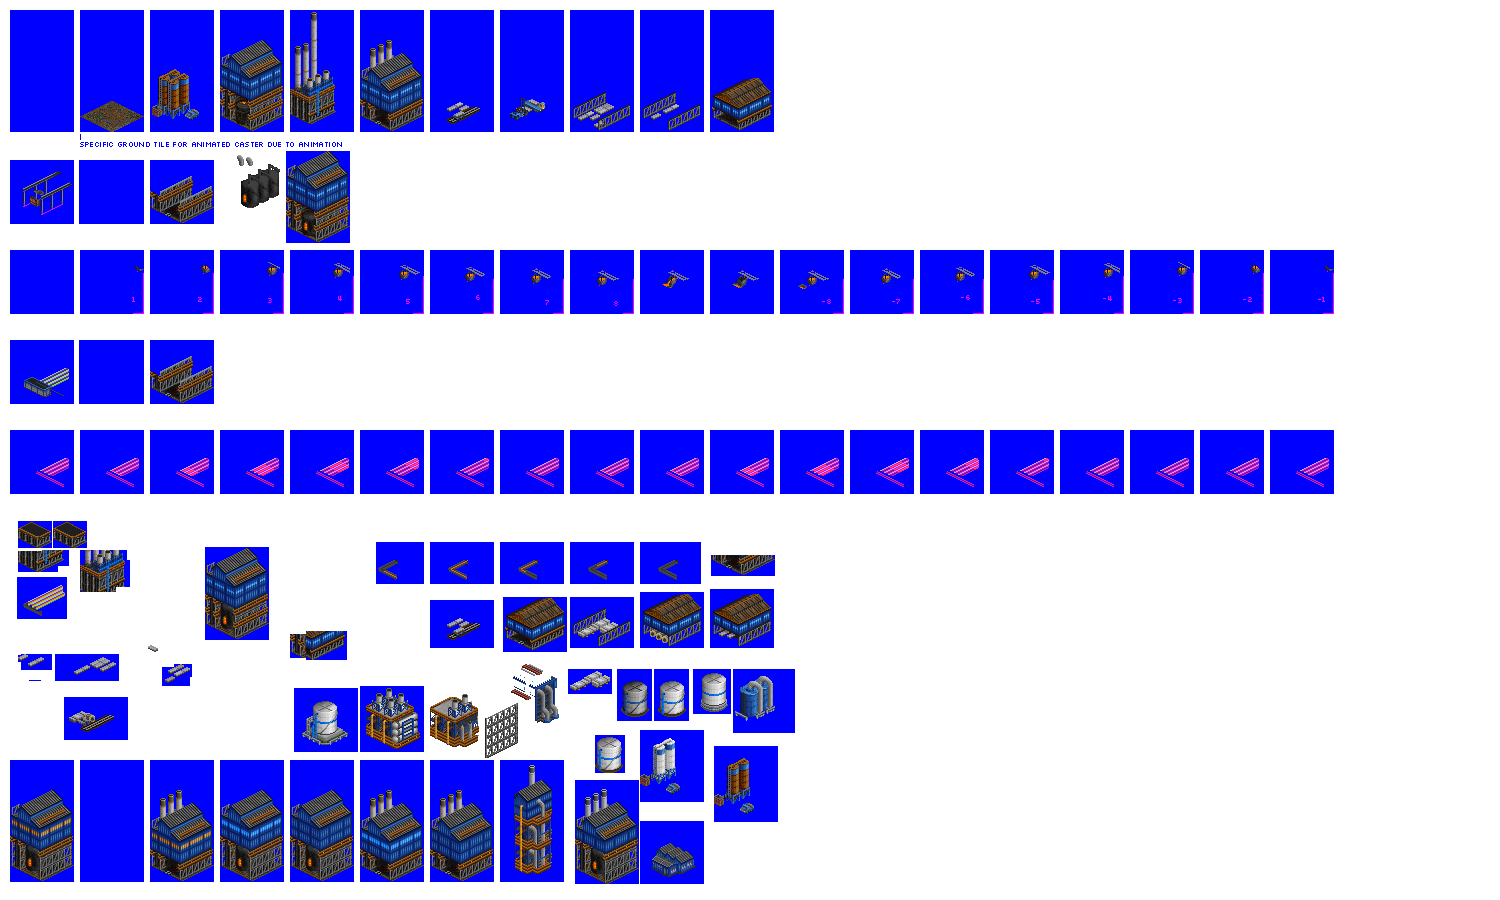
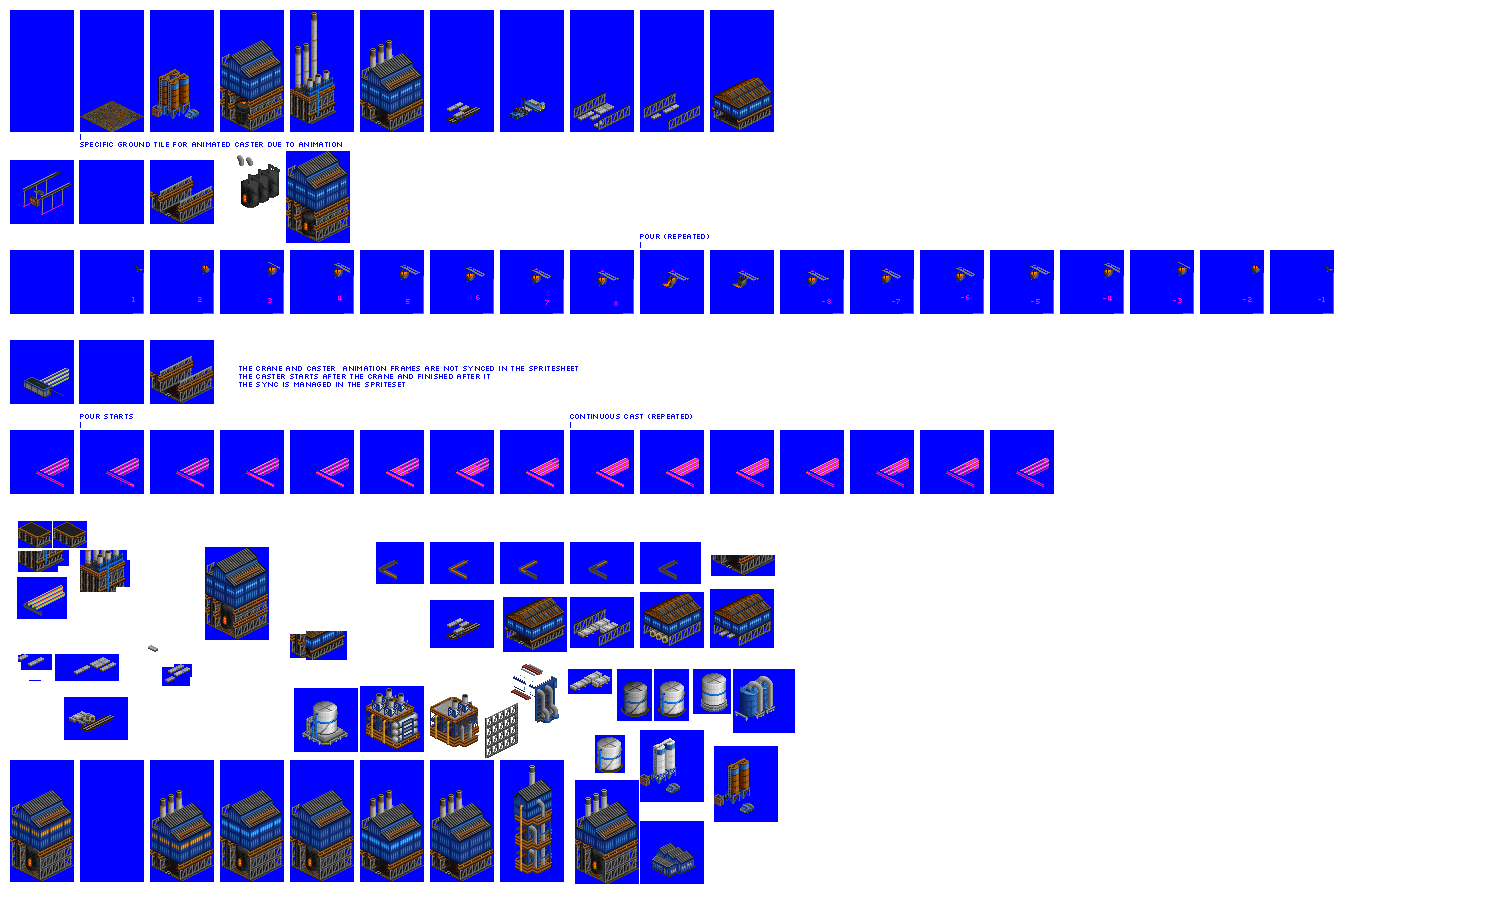
Change: improved BOF caster plant animation

Changed region(s): [[0.7053, 0.4667, 0.8893, 0.56], [0.1533, 0.4044, 0.3373, 0.4356]]

diff --git a/src/industries/basic_oxygen_furnace.py b/src/industries/basic_oxygen_furnace.py
@@ -44,9 +44,9 @@ industry.add_tile(
 )
 industry.add_tile(
     id="basic_oxygen_furnace_tile_2",
-    animation_length=20, # should be about 36, 20 is just for testing
+    animation_length=28, # should be about 36, 26 is just for testing
     animation_looping=True,
-    animation_speed=6, # 3 is better, 6 is just for testing
+    animation_speed=5, # 3 is better, 5 is just for testing
     location_checks=TileLocationChecks(
         require_effectively_flat=True, disallow_industry_adjacent=True
     ),
@@ -96,6 +96,13 @@ spriteset_caster_crane_animated = industry.add_spriteset(
         (430, 250, 64, 64, -31, -33),
         (500, 250, 64, 64, -31, -33),
         (570, 250, 64, 64, -31, -33),
+        # repeat the pour for 7 frames
+        (640, 250, 64, 64, -31, -33),
+        (640, 250, 64, 64, -31, -33),
+        (640, 250, 64, 64, -31, -33),
+        (640, 250, 64, 64, -31, -33),
+        (640, 250, 64, 64, -31, -33),
+        (640, 250, 64, 64, -31, -33),
         (640, 250, 64, 64, -31, -33),
         (710, 250, 64, 64, -31, -33),
         (780, 250, 64, 64, -31, -33),
@@ -109,7 +116,7 @@ spriteset_caster_crane_animated = industry.add_spriteset(
     ],
     animation_rate=1,
     # the offset here acts to extend the animation, and for this case should be the total number of animation frames provided in the spriteset
-    custom_sprite_selector="(animation_frame < 19) ? (animation_frame % 19) : 0",
+    custom_sprite_selector="(animation_frame < 25) ? (animation_frame % 25) : 0",
 )
 spriteset_caster_gantry_animated = industry.add_spriteset(
     sprites=[
@@ -118,13 +125,22 @@ spriteset_caster_gantry_animated = industry.add_spriteset(
     # autofills number of frames to match another spriteset which is animated etc (can get frame count from the other spriteset if defined already)
     num_sprites_to_autofill=len(spriteset_caster_crane_animated.sprites),
 )
-spriteset_ground_tile_animated = industry.add_spriteset(
+spriteset_ground_tile_animated_crane = industry.add_spriteset(
     sprites=[(80, 10, 64, 122, -31, -91)],
     # autofills number of frames to match another spriteset which is animated etc (can get frame count from the other spriteset if defined already)
     num_sprites_to_autofill=len(spriteset_caster_crane_animated.sprites),
 )
 spriteset_caster_metal_run_animated = industry.add_spriteset(
     sprites=[
+        # repeat the empty frame until the crane pour starts
+        (10, 430, 64, 64, -31, -33),
+        (10, 430, 64, 64, -31, -33),
+        (10, 430, 64, 64, -31, -33),
+        (10, 430, 64, 64, -31, -33),
+        (10, 430, 64, 64, -31, -33),
+        (10, 430, 64, 64, -31, -33),
+        (10, 430, 64, 64, -31, -33),
+        (10, 430, 64, 64, -31, -33),
         (10, 430, 64, 64, -31, -33),
         (80, 430, 64, 64, -31, -33),
         (150, 430, 64, 64, -31, -33),
@@ -133,26 +149,29 @@ spriteset_caster_metal_run_animated = industry.add_spriteset(
         (360, 430, 64, 64, -31, -33),
         (430, 430, 64, 64, -31, -33),
         (500, 430, 64, 64, -31, -33),
+        # repeat the pour for 2 frames
+        (570, 430, 64, 64, -31, -33),
         (570, 430, 64, 64, -31, -33),
         (640, 430, 64, 64, -31, -33),
         (710, 430, 64, 64, -31, -33),
         (780, 430, 64, 64, -31, -33),
         (850, 430, 64, 64, -31, -33),
         (920, 430, 64, 64, -31, -33),
-        (990, 430, 64, 64, -31, -33),
-        (1060, 430, 64, 64, -31, -33),
-        (1130, 430, 64, 64, -31, -33),
-        (1200, 430, 64, 64, -31, -33),
-        (1270, 430, 64, 64, -31, -33),
     ],
     animation_rate=1,
     # the offset here acts to extend the animation, and for this case should be the total number of animation frames provided in the spriteset
-    custom_sprite_selector="(animation_frame < 19) ? (animation_frame % 19) : 0",
+    # note the crane and caster have different animation lengths, the caster only needs to be long enough for the pour to run and clear
+    custom_sprite_selector="(animation_frame < 24) ? (animation_frame % 24) : 0",
 )
 spriteset_caster_machinery_animated = industry.add_spriteset(
     sprites=[
         (10, 340, 64, 64, -31, -33),
     ],
+    # autofills number of frames to match another spriteset which is animated etc (can get frame count from the other spriteset if defined already)
+    num_sprites_to_autofill=len(spriteset_caster_metal_run_animated.sprites),
+)
+spriteset_ground_tile_animated_metal_run = industry.add_spriteset(
+    sprites=[(80, 10, 64, 122, -31, -91)],
     # autofills number of frames to match another spriteset which is animated etc (can get frame count from the other spriteset if defined already)
     num_sprites_to_autofill=len(spriteset_caster_metal_run_animated.sprites),
 )
@@ -243,8 +262,8 @@ industry.add_spritelayout(
 )
 industry.add_spritelayout(
     id="basic_oxygen_furnace_spritelayout_animated_casting_front_part",
-    ground_sprite=spriteset_ground_tile_animated,
-    ground_overlay=spriteset_ground_tile_animated,
+    ground_sprite=spriteset_ground_tile_animated_crane,
+    ground_overlay=spriteset_ground_tile_animated_crane,
     building_sprites=[
         spriteset_caster_gantry_animated,
         spriteset_caster_crane_animated,
@@ -253,8 +272,8 @@ industry.add_spritelayout(
 )
 industry.add_spritelayout(
     id="basic_oxygen_furnace_spritelayout_animated_ladle_rear_part",
-    ground_sprite=spriteset_ground_tile_animated,
-    ground_overlay=spriteset_ground_tile_animated,
+    ground_sprite=spriteset_ground_tile_animated_metal_run,
+    ground_overlay=spriteset_ground_tile_animated_metal_run,
     building_sprites=[
         spriteset_caster_machinery_animated,
         spriteset_caster_metal_run_animated,
